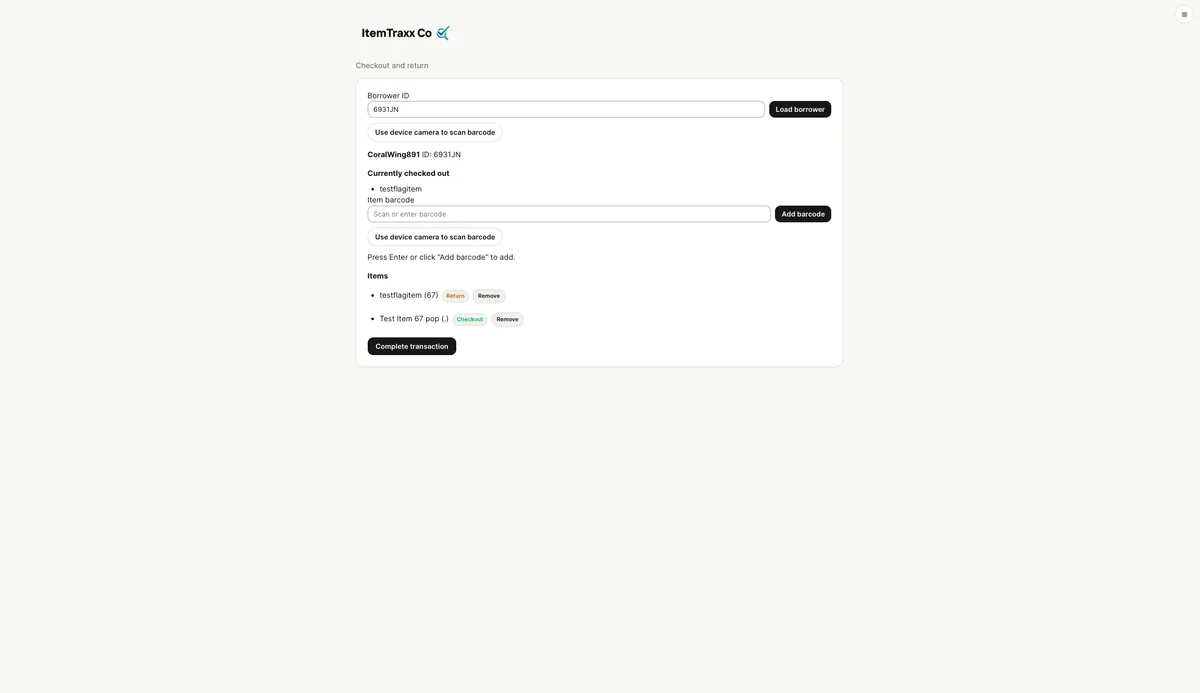
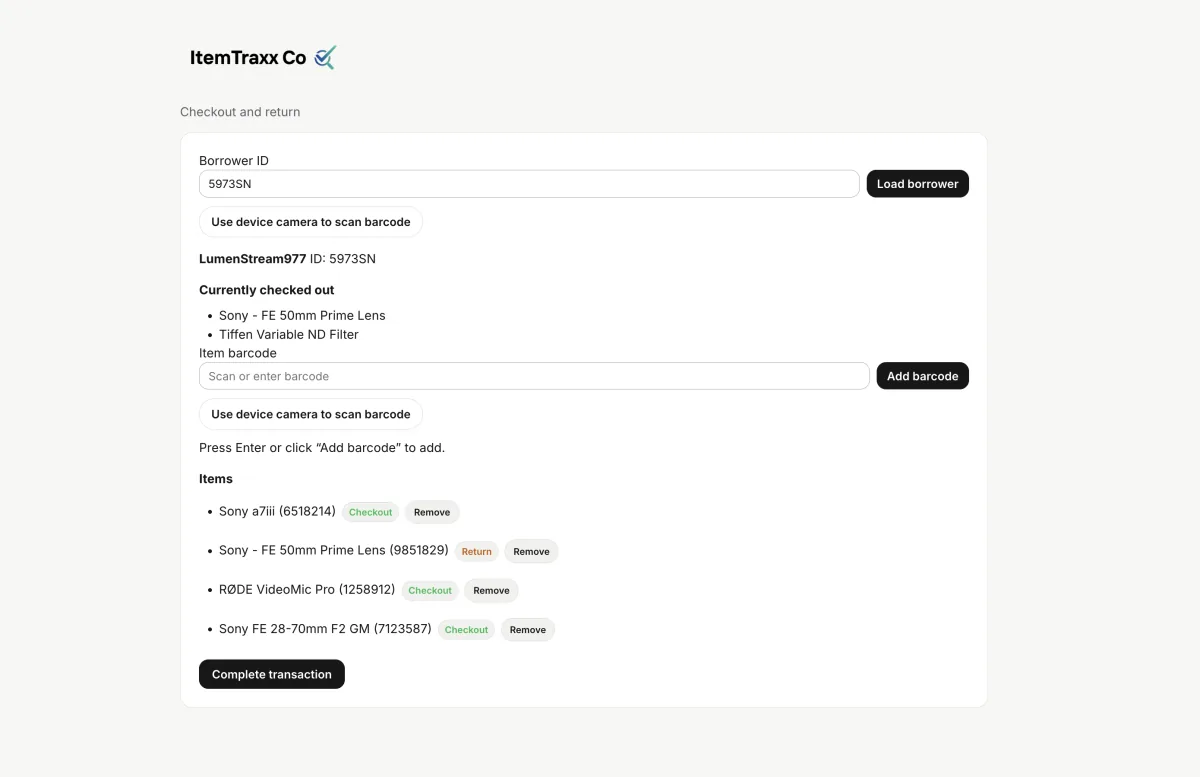
Fix remaining PR 1249 CI gates

diff --git a/src/pages/LandingPageNew.vue b/src/pages/LandingPageNew.vue
@@ -1,7 +1,9 @@
 <script setup>
 import { computed, onBeforeUnmount, onMounted } from "vue";
 import { RouterLink } from "vue-router";
-import checkoutReturnUiImage from "../assets/landing/checkout_return_ui.png";
+import checkoutReturnUiImage800 from "../assets/landing/checkout_return_ui-800.webp";
+import checkoutReturnUiImage1200 from "../assets/landing/checkout_return_ui-1200.webp";
+import checkoutReturnUiImage1600 from "../assets/landing/checkout_return_ui-1600.webp";
 import { useSystemStatus } from "../composables/useSystemStatus";
 import { trackProductEvent } from "../services/productEvents";
 import { getReleaseMetadata } from "../utils/releaseMetadata";
@@ -428,7 +430,7 @@ onBeforeUnmount(() => {
             </article>
             <div class="transform-arrow" aria-hidden="true"><svg viewBox="0 0 40 40" fill="none"><path d="M5 20h27m-10-10 10 10-10 10" stroke="currentColor" stroke-width="1.8" stroke-linecap="square" stroke-linejoin="miter"/></svg></div>
             <article class="compare-panel" id="checkout">
-              <div class="media-frame checkout-image"><img :src="checkoutReturnUiImage" alt="ItemTraxx checkout and return screen showing borrower details, checked-out items and checkout controls" width="2780" height="1798"></div>
+              <div class="media-frame checkout-image"><img :src="checkoutReturnUiImage1600" :srcset="`${checkoutReturnUiImage800} 800w, ${checkoutReturnUiImage1200} 1200w, ${checkoutReturnUiImage1600} 1600w`" sizes="(max-width: 700px) 92vw, (max-width: 1300px) 46vw, 600px" alt="ItemTraxx checkout and return screen showing borrower details, checked-out items and checkout controls" width="1600" height="1035"></div>
             </article>
           </div>
         </div>

diff --git a/src/App.vue b/src/App.vue
@@ -56,6 +56,7 @@
       />
     </AppTopBanners>
     <AuthenticatedNavigation
+      v-if="showTopMenu"
       :visible="showTopMenu"
       :show-notification-bell="showNotificationBell"
       :menu-open="menuOpen"
@@ -102,7 +103,6 @@ import { computed, defineAsyncComponent, onMounted, onScopeDispose, ref, watch, 
 import { useRoute, useRouter } from "vue-router";
 import AppBlockingOverlays from "./components/app/AppBlockingOverlays.vue";
 import AppTopBanners from "./components/app/AppTopBanners.vue";
-import AuthenticatedNavigation from "./components/app/AuthenticatedNavigation.vue";
 import CookieConsentBanner from "./components/CookieConsentBanner.vue";
 import AppToastOutlet from "./components/AppToastOutlet.vue";
 import { useAdminSessionLifecycle } from "./composables/useAdminSessionLifecycle";
@@ -124,6 +124,7 @@ import { getRouteLoadingState } from "./store/routeLoading";
 import { getSessionTerminationState } from "./store/sessionTermination";
 
 const OnboardingModal = defineAsyncComponent(() => import("./components/OnboardingModal.vue"));
+const AuthenticatedNavigation = defineAsyncComponent(() => import("./components/app/AuthenticatedNavigation.vue"));
 const OfflineWorkflowOverlays = defineAsyncComponent(() => import("./components/OfflineWorkflowOverlays.vue"));
 const OfflineWorkflowStatus = defineAsyncComponent(() => import("./components/OfflineWorkflowStatus.vue"));
 const Analytics = defineAsyncComponent(async () => (await import("@vercel/analytics/vue")).Analytics);

diff --git a/src/pages/PublicHome.vue b/src/pages/PublicHome.vue
@@ -127,12 +127,12 @@
             />
             <img
               class="feature-image"
-              :src="checkoutReturnUiImage"
+              :src="checkoutReturnUiImage1600"
               alt="Checkout and return interface preview"
               loading="lazy"
               decoding="async"
               width="1600"
-              height="810"
+              height="1035"
             />
           </picture>
         </div>
@@ -294,7 +294,6 @@ import adminUiImage from "../assets/landing/admin_ui.png";
 import adminUiImage800 from "../assets/landing/admin_ui-800.webp";
 import adminUiImage1200 from "../assets/landing/admin_ui-1200.webp";
 import adminUiImage1600 from "../assets/landing/admin_ui-1600.webp";
-import checkoutReturnUiImage from "../assets/landing/checkout_return_ui.png";
 import checkoutReturnUiImage800 from "../assets/landing/checkout_return_ui-800.webp";
 import checkoutReturnUiImage1200 from "../assets/landing/checkout_return_ui-1200.webp";
 import checkoutReturnUiImage1600 from "../assets/landing/checkout_return_ui-1600.webp";

diff --git a/src/store/systemStatusState.ts b/src/store/systemStatusState.ts
@@ -1,8 +1,5 @@
 import { computed, reactive } from "vue";
-import {
-  fetchSystemStatus,
-  type SystemStatusPayload,
-} from "../services/systemStatusService";
+import type { SystemStatusPayload } from "../services/systemStatusService";
 
 const POLL_INTERVAL_MS = 300_000;
 
@@ -38,6 +35,7 @@ const refresh = async (force = false): Promise<void> => {
   if (state.loading) return;
   state.loading = true;
   try {
+    const { fetchSystemStatus } = await import("../services/systemStatusService");
     const result = await fetchSystemStatus({
       force,
       staleWhileRevalidate: !force,
@@ -52,6 +50,11 @@ const refresh = async (force = false): Promise<void> => {
       state.responseOk = false;
       state.hasResult = false;
     }
+    state.refreshedAt = Date.now();
+  } catch {
+    state.responseStatus = 0;
+    state.responseOk = false;
+    state.hasResult = false;
     state.refreshedAt = Date.now();
   } finally {
     state.loading = false;

diff --git a/tests/e2e/public-and-legal.spec.ts b/tests/e2e/public-and-legal.spec.ts
@@ -59,8 +59,9 @@ test.describe("Public surfaces", () => {
 
       const image = page.locator(".comparison .checkout-image img");
       await expect(image).toHaveAttribute("alt", "ItemTraxx checkout and return screen showing borrower details, checked-out items and checkout controls");
-      await expect(image).toHaveAttribute("width", "2780");
-      await expect(image).toHaveAttribute("height", "1798");
+      await expect(image).toHaveAttribute("width", "1600");
+      await expect(image).toHaveAttribute("height", "1035");
+      await expect(image).toHaveAttribute("srcset", /800w/);
 
       const finalCta = page.locator("section.final-cta");
       await expect(finalCta.getByRole("link", { name: "Get a demo", exact: true })).toHaveAttribute("href", "/request-demo");

diff --git a/supabase/functions/_shared/accountSessions_test.ts b/supabase/functions/_shared/accountSessions_test.ts
@@ -75,7 +75,7 @@ class MockClient {
     if (!response) throw new Error("Unexpected query");
     return new QueryBuilder(response);
   }
-  rpc(name: string, args: Record<string, unknown>) {
+  rpc(name: string, args: Record<string, unknown> = {}) {
     if (name !== "is_better_auth_session_active") throw new Error(`Unexpected RPC ${name}`);
     if (typeof args.p_session_id !== "string") throw new Error("Missing Better Auth session id");
     return Promise.resolve(this.activeBetterAuthSession);

diff --git a/supabase/functions/admin-ops/actions/sessions_test.ts b/supabase/functions/admin-ops/actions/sessions_test.ts
@@ -106,6 +106,7 @@ const makeClient = (
   return {
     client: {
       from,
+      rpc: () => Promise.resolve({ data: true, error: null }),
       schema,
       // Production session validation verifies the Better Auth JWT through the
       // external-auth bridge. Keep the test double on that same boundary so

diff --git a/supabase/functions/admin-ops/actions_test.ts b/supabase/functions/admin-ops/actions_test.ts
@@ -107,6 +107,7 @@ const queryClient = (
   return {
     client: {
       from,
+      rpc: () => Promise.resolve({ data: true, error: null }),
       __verifyExternalAuthClaimsForTest: () =>
         Promise.resolve(
           options.claimsError || options.claims === null
